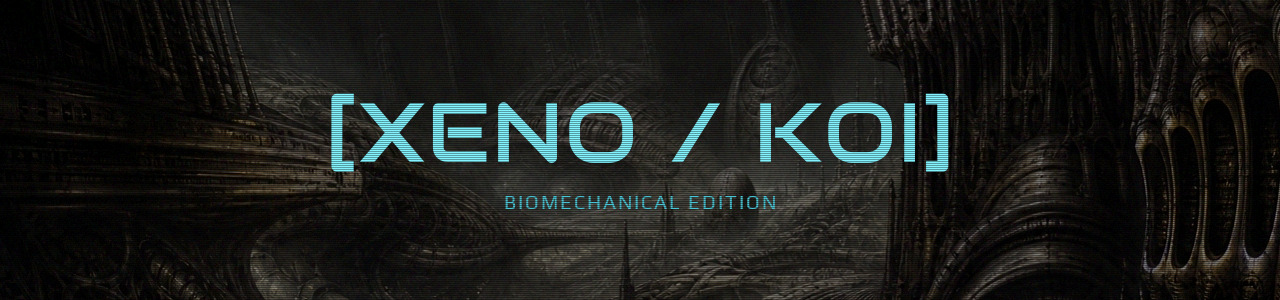
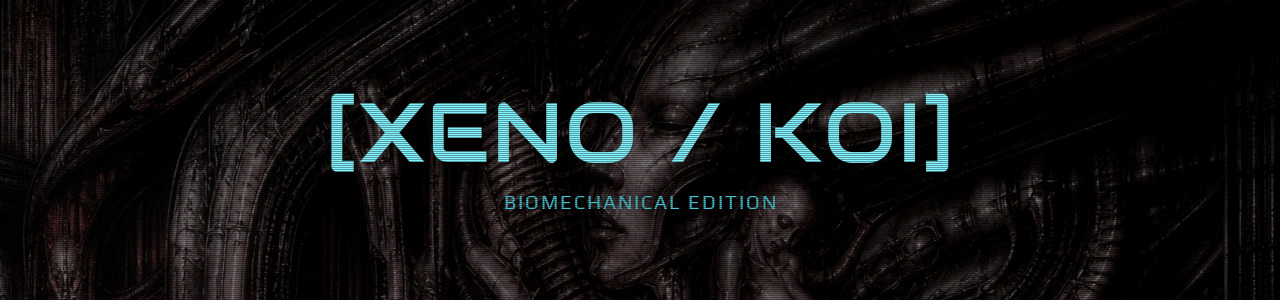
README: face.jpg for the masthead; his mono sheet off the beginner pages
Two follow-ups from the first cut.

The band is now painted over assets/face.jpg, background index 6: the dark arch lands
exactly where the lettering sits and the sleeping face rises under it. Still the game's
own composite (alpha-140 dim, Audiowide 84px tracking 2.0, postprocess.fs scanlines and
gamma at the defaults) and it cost less, not more: 122 KiB against 144. The alt text
describes the art that is actually there.

The mono atlas was too hard to read on the pages a beginner lands on. A player picking a
rule set or a difficulty needs to recognise the Phoenix, not admire an etching, and at the
45-88px a table or chart thumbnail allows the engraved sheet is one grey field: month
picture, type and framing all in the same tone. So card_subdir_for_listing() now decides
what a listing shows -- the coloured deck, everyone, including Entity 13 -- while
card_subdir_for_opponent() keeps the engine's truth (he draws from assets/atlas_deus.png,
board_draw_card) and is used by his dossier alone. His page still shows the mono Phoenix and
the whole 48-card sheet, because there it is the point.

One footnote added to the roster so the fact is not lost, and the chart shrank 88 KiB to 79
KiB by dropping its second copy of the same card. gen_wiki_tables --check, both --check
scripts and mkdocs build --strict all pass; verified in the built HTML that opponents.md and
difficulty.md now point at assets/cards/card-44.webp and only deus-supremus.md at
assets/cards/deus/card-44.webp.

diff --git a/tools/wiki_tables.c b/tools/wiki_tables.c
@@ -309,6 +309,16 @@ static const char *card_subdir_for_opponent(int i) {
     return (i == CAMPAIGN_OPPONENT_COUNT) ? "deus/" : "";
 }
 
+/* ... but only his own page should show it. His sheet is engraved mono art, and at the 45-88 px
+   a thumbnail gets in a table or a chart it stops reading as a card at all: the month picture,
+   the type and the framing are all in the same grey. A beginner picking a rule set or reading a
+   difficulty curve needs to recognise the Phoenix, not admire the etching, so every listing that
+   is not about him specifically uses the coloured deck, and his dossier keeps the mono one. */
+static const char *card_subdir_for_listing(int i) {
+    (void)i;
+    return "";
+}
+
 static void frag_opponents(void) {
     puts("@@FRAGMENT opponents");
     puts("| # | Opponent | Unit classification | Favorite card | Focus |");
@@ -321,7 +331,7 @@ static void frag_opponents(void) {
         else
             printf("| %d | **%s** | %s | ", i, o->name, o->title);
         printf("![%s](../assets/cards/%scard-%02d.webp){ .card-mini }", fc->name,
-               card_subdir_for_opponent(i), o->favorite_card_id);
+               card_subdir_for_listing(i), o->favorite_card_id);
         printf(" %s (id %d) | %s |\n", fc->name, o->favorite_card_id, o->favorite_combo);
     }
     puts("");
@@ -333,6 +343,10 @@ static void frag_opponents(void) {
         const Opponent *o = campaign_get_opponent(i);
         printf("| %d | *%s* | *%s* |\n", i, o->taunt_text, o->koi_taunt);
     }
+    puts("");
+    puts("*(Entity 13's card is shown from the coloured deck here, like everyone else's, because "
+         "his engraved sheet is unreadable at thumbnail size. The art he actually plays you with -- "
+         "all 48 cards -- is on his page.)*");
     puts("@@END");
 }
 
@@ -376,7 +390,7 @@ static void frag_roster_meta(void) {
     for (int i = 0; i <= 12; i++) {
         const Opponent *o = campaign_get_opponent(i);
         printf("%d | %s | %d | %s | %s | %s\n", i, o->name, o->favorite_card_id,
-               CARDS[o->favorite_card_id].name, o->favorite_combo, card_subdir_for_opponent(i));
+               CARDS[o->favorite_card_id].name, o->favorite_combo, card_subdir_for_listing(i));
     }
     puts("@@END");
 }

diff --git a/tools/make_readme_art.py b/tools/make_readme_art.py
@@ -79,12 +79,13 @@ BACKDROPS = {
     "face": "assets/face.jpg",
     "realm": "assets/realm.jpg",
 }
-# The README band is painted over assets/hole.jpg, background index 1. Not the game's own
-# default frame -- that is harvest.jpg, index 0 (storage.c:36) -- because hole.jpg is the one
-# of the eight whose middle falls away into dark architecture, so the masthead has something to
-# sit on. --frame takes any of them; the default here is a presentation choice, and that is the
-# only number in this file that is not copied from the game.
-DEFAULT_BACKDROP = "hole"
+# The README band is painted over assets/face.jpg, background index 6 (bg_names, ui_board.c:98-100).
+# Not the game's own default frame -- that is harvest.jpg, index 0 (storage.c:36) -- because face.jpg
+# is the one of the eight that puts a dark arch exactly where the masthead has to sit, with the
+# sleeping biomechanical face rising underneath it. --frame takes any of them. This is the only number
+# in the file that is a presentation choice rather than a value copied out of the game, and it is the
+# owner's, not the generator's.
+DEFAULT_BACKDROP = "face"
 
 # The band of the start screen the README uses: the masthead, nothing else.
 BAND = (0, 0, 1280, 300)

diff --git a/docs/reference/opponents.md b/docs/reference/opponents.md
@@ -22,7 +22,7 @@ Opponents unlock in order. You win a match against the newest opponent to unlock
 | 9 | **10: OCT. DEER** | Sensory-Stealth Unit // Sector 10 | ![10-A Deer](../assets/cards/card-36.webp){ .card-mini } 10-A Deer (id 36) | Ino-Shika-Cho |
 | 10 | **11: NOV. RAIN** | Atmospheric Anomaly // Sector 11 | ![11-B Rainman](../assets/cards/card-40.webp){ .card-mini } 11-B Rainman (id 40) | Ribbons |
 | 11 | **12: DEC. PHOENIX** | The Apex Biomech // Sector 12 | ![12-B Phoenix](../assets/cards/card-44.webp){ .card-mini } 12-B Phoenix (id 44) | Brights |
-| 12 | **ENTITY 13 // DEUS SUPREMUS** ([dossier](deus-supremus.md)) | Omnipresent Machine God // Sector Null | ![12-B Phoenix](../assets/cards/deus/card-44.webp){ .card-mini } 12-B Phoenix (id 44) | Brights |
+| 12 | **ENTITY 13 // DEUS SUPREMUS** ([dossier](deus-supremus.md)) | Omnipresent Machine God // Sector Null | ![12-B Phoenix](../assets/cards/card-44.webp){ .card-mini } 12-B Phoenix (id 44) | Brights |
 
 Taunt lines:
 
@@ -41,6 +41,8 @@ Taunt lines:
 | 10 | *THE STORM WASHES ALL AWAY.* | *DELUGE IMMINENT. KOI-KOI!* |
 | 11 | *ASH TO ASH. DUST TO DUST.* | *REBORN FROM CRUCIBLE. KOI-KOI!* |
 | 12 | *PURE MATHEMATICAL PERFECTION.* | *INEVITABILITY CONFIRMED. KOI-KOI!* |
+
+*(Entity 13's card is shown from the coloured deck here, like everyone else's, because his engraved sheet is unreadable at thumbnail size. The art he actually plays you with -- all 48 cards -- is on his page.)*
 
 <!-- END GENERATED: opponents -->
 

diff --git a/docs/reference/difficulty.md b/docs/reference/difficulty.md
@@ -42,7 +42,7 @@ accuracy. See [Errata & Known Issues](../errata.md) for what the rulesets do cha
 | 10 | **OCT. DEER** | ![10-A Deer](../assets/cards/card-36.webp){ .card-mini } 10-A Deer | Ino-Shika-Cho | 52% | 74% | 96% |
 | 11 | **NOV. RAIN** | ![11-B Rainman](../assets/cards/card-40.webp){ .card-mini } 11-B Rainman | Ribbons | 56% | 77% | 98% |
 | 12 | **DEC. PHOENIX** | ![12-B Phoenix](../assets/cards/card-44.webp){ .card-mini } 12-B Phoenix | Brights | 60% | 80% | 100% |
-| 13 | **ENTITY 13 // DEUS SUPREMUS ([dossier](deus-supremus.md))** | ![12-B Phoenix](../assets/cards/deus/card-44.webp){ .card-mini } 12-B Phoenix | Brights | - | - | **100%** always |
+| 13 | **ENTITY 13 // DEUS SUPREMUS ([dossier](deus-supremus.md))** | ![12-B Phoenix](../assets/cards/card-44.webp){ .card-mini } 12-B Phoenix | Brights | - | - | **100%** always |
 | | *Ramp, 01 to 12* | | | +40 | +30 | +22 |
 
 *Easy, Hard and Master are not picked against [DEUS SUPREMUS](deus-supremus.md): he overrides the band and plays optimally on every turn.*

diff --git a/README.md b/README.md
@@ -1,4 +1,4 @@
-<img src="docs/assets/readme/hero.jpg" alt="[XENO / KOI] Biomechanical Edition — the game's own start screen: teal CRT lettering over Giger-style biomechanical architecture." width="1280" />
+<img src="docs/assets/readme/hero.jpg" alt="[XENO / KOI] Biomechanical Edition — the game's own start screen: teal CRT lettering under a dark arch, over Giger-style biomechanical art of a face merged with the architecture." width="1280" />
 
 <a href="https://aquaslopper.github.io/Xeno-koi/play/"><img src="docs/assets/readme/btn-play.png" alt="Play in the browser" width="300" /></a>&nbsp;
 <a href="https://aquaslopper.github.io/Xeno-koi/how-to-play/"><img src="docs/assets/readme/btn-rulebook.png" alt="Read the rulebook" width="300" /></a>&nbsp;
